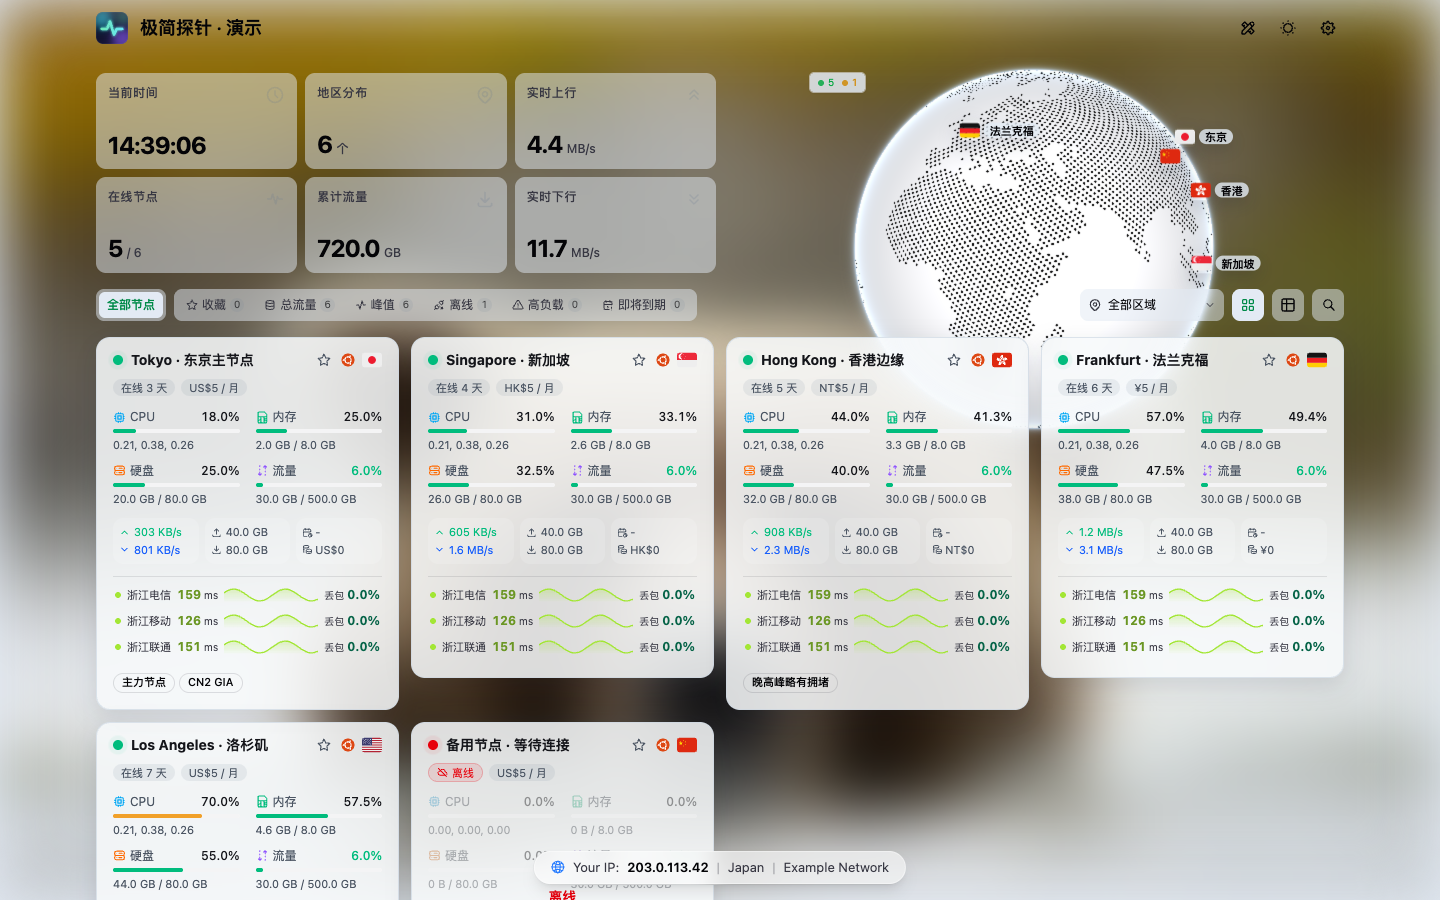
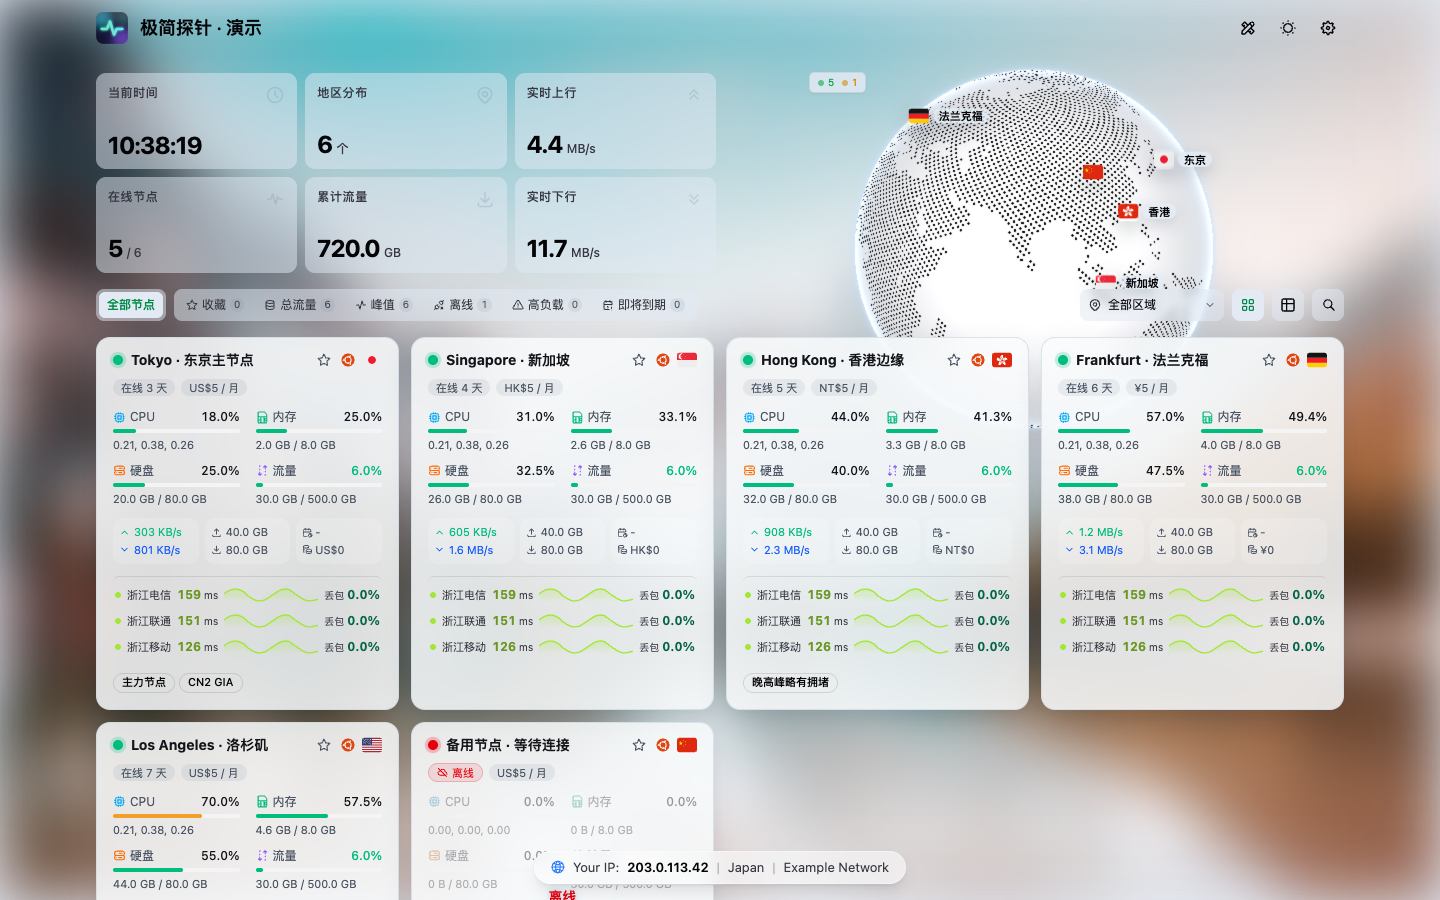
docs: 更新预览图，README 补充访客信息样式
1440x900 首页截图取自演示数据，访客 IP 查询返回 RFC 5737 示例地址
203.0.113.42，其余 IP 服务均已拦截。

diff --git a/README.md b/README.md
@@ -10,7 +10,7 @@
 
 - **玻璃拟态外观**：提供动态渐变背景，以及翡翠、柔和、高对比、午夜和自定义五种配色；支持浅色、深色及按北京时间自动切换。背景可选用图片、视频或 Bing 每日壁纸。
 - **地球与地图**：提供贴图地球、Cobe 点阵地球、平铺世界地图和点阵平铺地图四种样式，标注节点所在国家，支持自动旋转或隐藏。启用「地球显示城市」后，将根据节点名称识别城市并标注城市名称。
-- **首页概览**：概览卡片提供多种预设方案，并支持自定义顺序；另提供公告（支持 Markdown）、快捷筛选（收藏、离线、高负载、即将到期等）、区域筛选、搜索及节点收藏功能。
+- **首页概览**：概览卡片提供多种预设方案，并支持自定义顺序；另提供公告（支持 Markdown）、快捷筛选（收藏、离线、高负载、即将到期等）、区域筛选、搜索及节点收藏功能。访客信息可显示为底部 IP 条或左下角详情卡片，同一时间只显示一种：默认在超宽屏显示卡片，其余屏幕显示 IP 条，也可通过「访客信息样式」固定为其中一种。
 - **节点分组**：支持 Monitor 原生分组，节点按后台设定的顺序排列，并提供「未分组」入口。切换分组后，概览、地球及工具面板仅统计当前分组。
 - **节点卡片**：提供 mini、compact、comfortable、large 四种卡片尺寸及列表视图，离线节点排列于末尾；离线卡片以淡化样式显示，并标注「离线」。
 - **多线路延迟**：普通卡片默认显示至多 3 条探测线路，左侧为最新延迟及历史色条，右侧为最近 1 小时的丢包率及历史色条；点击线路可查看延迟详情。「卡片延迟样式」可切换为延迟曲线，悬停或点按曲线可查看对应时段的延迟与丢包率。
@@ -28,7 +28,7 @@
 - **已移除的功能**：原版中的 GPU、温度、自定义标签、城市与 ASN 信息、拓扑工具及审计日志依赖 Monitor 未提供的数据，均已移除。
 - **历史图表**：历史数据包含 CPU、内存、磁盘、上下行速率及 Ping；极简探针 1.4.1 起另含 Swap、TCP/UDP 连接数和进程数，详情页据此绘制 Swap 曲线及「网络连接」「进程」两张图表，较早版本的 Hub 不提供这些数据，相应曲线与图表不显示。负载仅提供实时值，不绘制历史曲线。Hub 返回各时间区间内的峰值速率（`net_rx_max` / `net_tx_max`）时，网络图以虚线绘制峰值，详情页的「近一天峰值」亦据此计算；较早版本的 Hub 不提供该数据，此时仅显示平均速率。
 - **流量统计**：流量配额采用 Hub 依据节点计费方式（上行、下行、取较大值或求和）计算的本周期用量 `month_used`，与后台及流量告警保持一致；较早版本的 Hub 不提供该字段，此时主题按相同规则，依据本月上传量与下载量计算。累计流量为节点接入以来的总量。
-- **外部服务**：访客信息条默认启用，该功能会请求第三方 IP 查询服务，可在设置中关闭；汇率与图标的加载同样依赖外部服务。
+- **外部服务**：访客信息默认启用，该功能会请求第三方 IP 查询服务，可通过「显示访客信息」关闭；汇率与图标的加载同样依赖外部服务。
 - **后台管理**：后台管理功能由极简探针的 `/admin/` 页面提供，主题包不包含 Komari 后台。
 
 ## 开发
